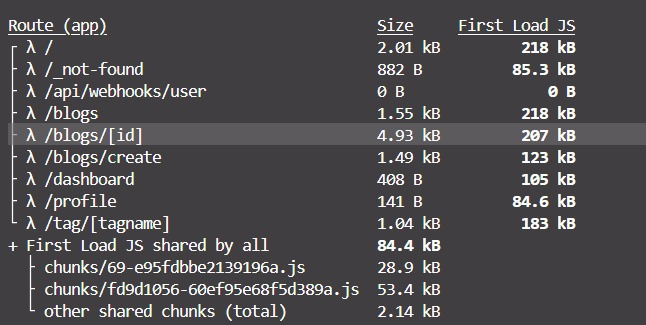
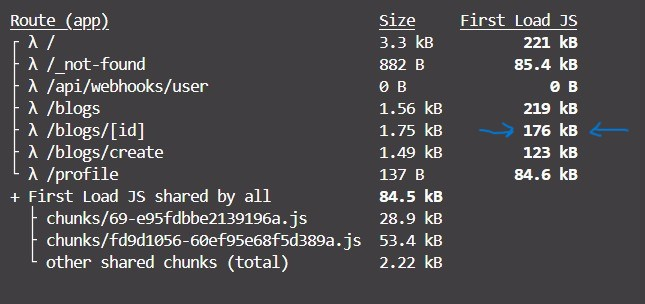
(update): readme file

Changed region(s): [[0.0, 0.0296, 1.0, 0.977], [0.6822, 0.0296, 0.8992, 0.2368], [0.5581, 0.0296, 0.6822, 0.2368]]

diff --git a/README.md b/README.md
@@ -49,10 +49,7 @@ Optimize the performance of a Next.js application by implementing lazy loading f
 
 ## Screenshots
 
-- **Before Adding Blog Detail Pages**: Bundle size - 200 KB
-- **After Adding Dialog and Drawer Components**: Bundle size - 255 KB
-- **After Dynamic Import**: Bundle size - 207 KB
-
-![Before Adding Blog Detail Pages](public/inital.jpg)
-![After Adding Dialog and Drawer Components](public/aftercomponents.jpg)
-![After Dynamic Import](public/afterdynamic.jpg)
+- ** Import Dialog and Drawer Components without dynamic import **: Bundle size - 234 KB ->` blogs/id page`
+  ![After Adding Dialog and Drawer Components](public/beforedynamic.jpg)
+- **After Dynamic Import**: Bundle size - 176 KB -> `blogs/id page`
+  ![After Dynamic Import](public/afterdynamic.jpg)
